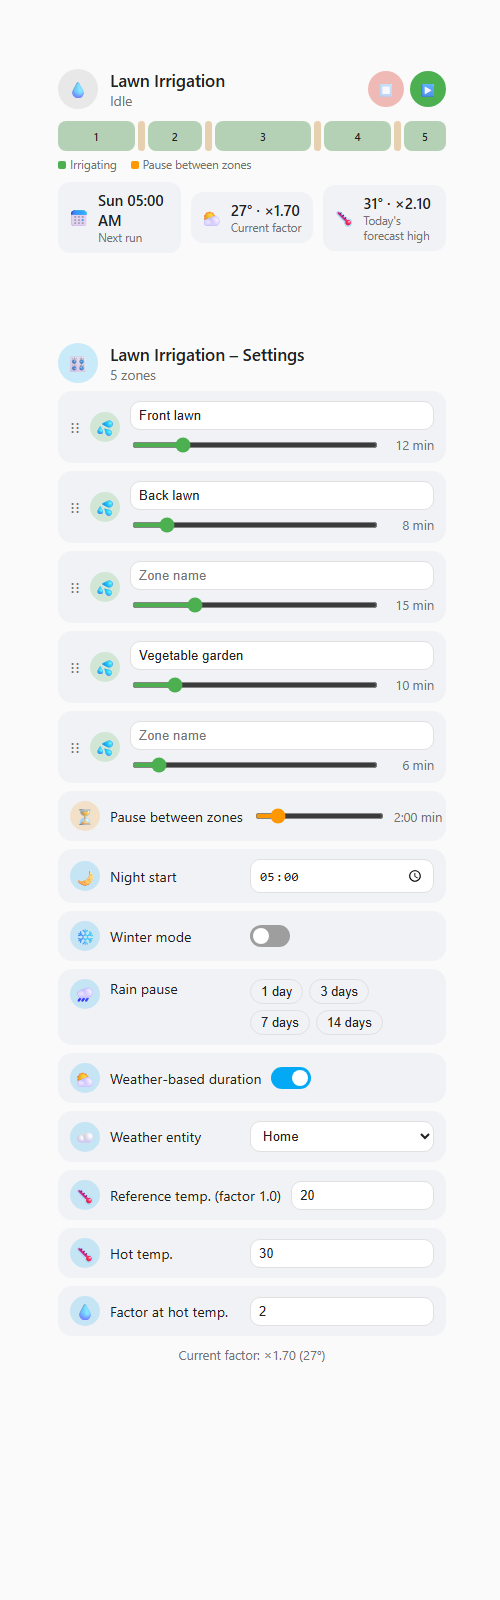
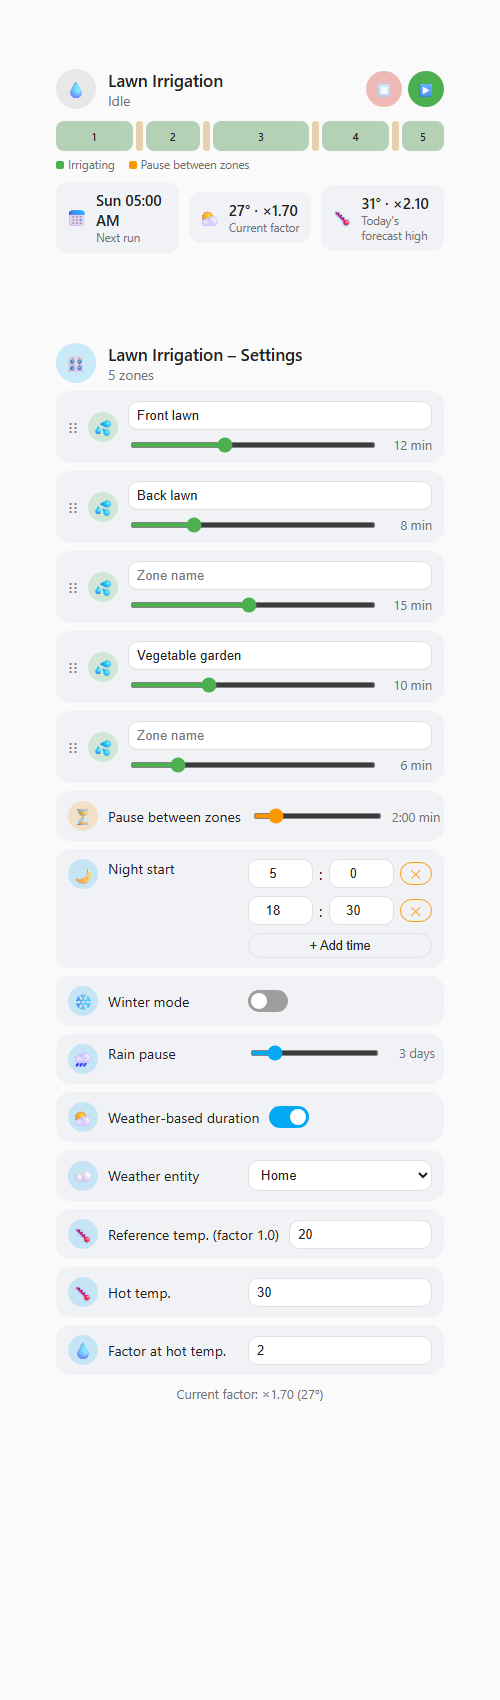
Refresh screenshots, make demo.html mock stateful and interactive
Closes #8

diff --git a/screenshots/demo.html b/screenshots/demo.html
@@ -188,6 +188,48 @@
     statusCard.setConfig({ entity: "sensor.lawn_irrigation_status", title: statusTitle, layout });
     statusCard.hass = hass;
 
+    // Stateful mock so demo.html is actually interactive: services below
+    // mutate statusAttrs and push a fresh hass object to both cards, the
+    // same round trip a real Home Assistant instance does after a service
+    // call updates the sensor.
+    const pushHassUpdate = () => {
+      hass.states["sensor.lawn_irrigation_status"] = {
+        ...hass.states["sensor.lawn_irrigation_status"],
+        attributes: { ...statusAttrs },
+      };
+      const nextHass = { ...hass, states: { ...hass.states } };
+      statusCard.hass = nextHass;
+      settingsCard.hass = nextHass;
+    };
+    hass.callService = (domain, service, data) => {
+      if (domain !== "irrigation_sequencer") return;
+      const zone = (id) => statusAttrs.zones.find((z) => z.entity_id === id);
+      if (service === "set_start_times") statusAttrs.start_times = data.start_times;
+      if (service === "set_zone_duration" && zone(data.entity_id)) zone(data.entity_id).duration_minutes = data.minutes;
+      if (service === "set_zone_name" && zone(data.entity_id)) zone(data.entity_id).name = data.name;
+      if (service === "set_pause_between_zones") statusAttrs.pause_between_zones_seconds = data.seconds;
+      if (service === "set_rain_pause") {
+        const d = new Date();
+        d.setDate(d.getDate() + data.days);
+        statusAttrs.rain_pause_until = d.toISOString().slice(0, 10);
+      }
+      if (service === "clear_rain_pause") statusAttrs.rain_pause_until = null;
+      if (service === "set_winter_mode") statusAttrs.winter_mode = data.enabled;
+      if (service === "set_weather_adjustment") {
+        Object.assign(statusAttrs, {
+          weather_adjustment_enabled: data.enabled,
+          weather_entity: data.weather_entity,
+          weather_reference_temp: data.reference_temp,
+          weather_hot_temp: data.hot_temp,
+          weather_hot_factor: data.hot_factor,
+        });
+      }
+      if (service === "set_zone_order") {
+        statusAttrs.zones = data.zones.map((id, i) => ({ ...zone(id), position: i }));
+      }
+      pushHassUpdate();
+    };
+
     const settingsCard = document.getElementById("settings-card");
     settingsCard.setConfig({ entity: "sensor.lawn_irrigation_status", title: settingsTitle, layout });
     settingsCard.hass = hass;

diff --git a/CHANGELOG.md b/CHANGELOG.md
@@ -5,6 +5,16 @@ All notable changes to this project are documented here. Versioning follows
 `custom_components/irrigation_sequencer/manifest.json` and tagged as a
 GitHub release (`vX.Y.Z`) once pushed.
 
+## [0.7.1] - 2026-07-19
+
+- Refreshed all README screenshots to match the current UI (icon, rain-pause
+  slider, multi start-time rows).
+- `screenshots/demo.html`'s mock is now genuinely stateful/interactive:
+  service calls (zone order/name/duration, pause, start times, winter mode,
+  rain pause, weather adjustment) actually mutate the mock sensor and push
+  the update back to both cards, instead of being no-ops. Verified 1-3
+  start times can be edited and removed back down to 1 through it.
+
 ## [0.7.0] - 2026-07-19
 
 - **Fixed**: the zone-name field (and other row content) could lose focus
